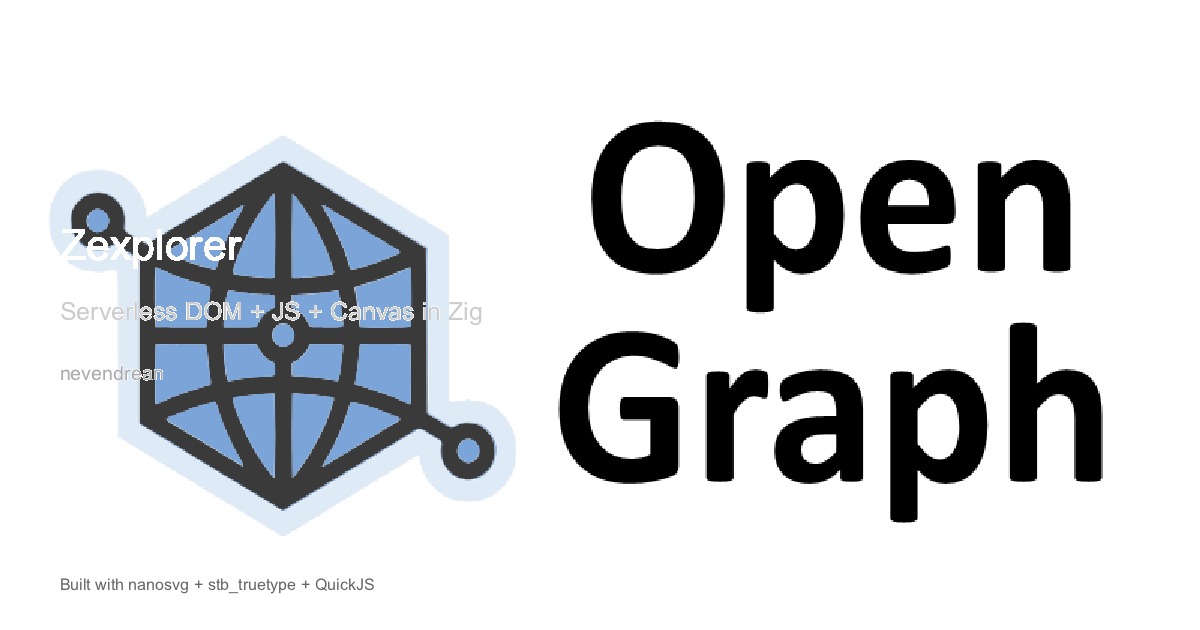
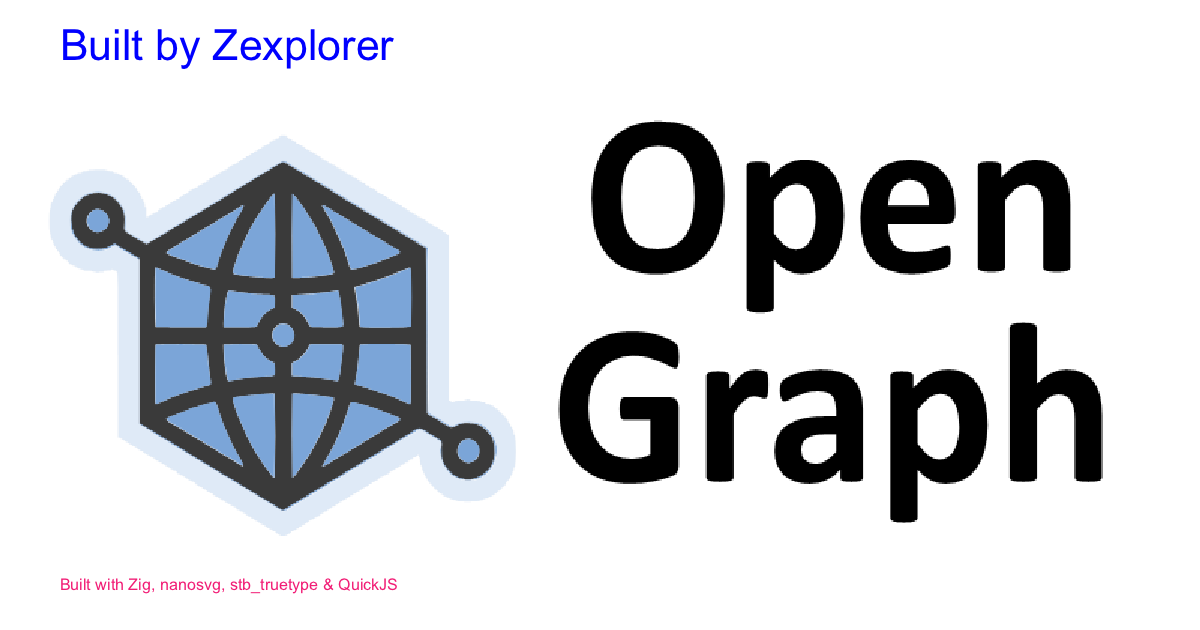
[Fix] Update

diff --git a/src/examples/test_svg_template_render.js b/src/examples/test_svg_template_render.js
@@ -23,35 +23,23 @@ async function renderTemplate(svgText, data) {
   // Draw the SVG template as background (scaled to fill)
   ctx.drawImage(img, 0, 0, img.width, img.height, 0, 0, w, h);
 
-  // --- Overlay dynamic text ---
+  // -- Overlay dynamic text --
 
   // Title (large, prominent)
   if (data.title) {
-    ctx.fillStyle = data.titleColor || "white";
+    ctx.fillStyle = data.titleColor || "blue";
     ctx.font = data.titleFont || "bold 48px";
-    ctx.fillText(data.title, 60, 260);
-  }
-
-  // Subtitle
-  if (data.subtitle) {
-    ctx.fillStyle = data.subtitleColor || "#cccccc";
-    ctx.font = data.subtitleFont || "28px";
-    ctx.fillText(data.subtitle, 60, 320);
-  }
-
-  // Author
-  if (data.author) {
-    ctx.fillStyle = data.authorColor || "#aaaaaa";
-    ctx.font = data.authorFont || "22px";
-    ctx.fillText(data.author, 60, 380);
+    ctx.fillText(data.title, 60, 60);
   }
 
   // Footer (bottom-left)
   if (data.footer) {
-    ctx.fillStyle = data.footerColor || "#666666";
+    ctx.fillStyle = data.footerColor || "#f11c75";
     ctx.font = data.footerFont || "18px";
     ctx.fillText(data.footer, 60, h - 40);
   }
+
+  // -- return data to Zig --
 
   const result = await canvas.toBlob();
   return await result.arrayBuffer();

diff --git a/README.md b/README.md
@@ -176,6 +176,7 @@ The output confirms that the whole page is sanitized and can be used:
 
 Confirm style set by class .untrusted on #js1: color= red
 ```
+---
 
 ### Generate OG images from SVG templates
 
@@ -187,62 +188,103 @@ It supports only a _subset of SVG_ (it uses `nanosvg` under the hood), meaning n
 
 Text can be added into the Canvas though (support via `stb_truetype`) using the preloaded `Arial` font and `fillText`, `measureText` related functions.
 
+[Source SVG](https://github.com/ndrean/zexplorer/blob/main/test_opengraph_me.svg)
+
 ```js
 // src/examples/test_svg_read_render.js
 
-async function renderSVG(svg_text_buffer) {
-  const blob = new Blob([svg_text_buffer], {type: 'image/svg+xml'});
+async function renderTemplate(svgText, data) {
+  const blob = new Blob([svgText], { type: "image/svg+xml" });
   const img = await createImageBitmap(blob);
-  
-  console.log('[JS] SVG from Blob:', img.width, 'x', img.height);
-  
-  const canvas = document.createElement('canvas');
-  const w = 800;
-  const h = w * img.height / img.width;
+
+  const w = data.width || 1200;
+  const h = data.height || 630;
+
+  const canvas = document.createElement("canvas");
   canvas.width = w;
   canvas.height = h;
-  const ctx = canvas.getContext('2d');
-  
-  ctx.fillStyle = 'white';
-  ctx.fillRect(0, 0, w, h);
-  ctx.drawImage(img, 0, 0, img.width, img.height, 0, 0, w, h);
-  
-  ctx.fillStyle = 'blue';
-  ctx.font = '20px';
-  ctx.fillText('SVG via Blob', 10, 390);
+  const ctx = canvas.getContext("2d");
 
-  // return value to Zig
+  // White background fallback
+  ctx.fillStyle = "white";
+  ctx.fillRect(0, 0, w, h);
+
+  // Draw the SVG template as background (scaled to fill)
+  ctx.drawImage(img, 0, 0, img.width, img.height, 0, 0, w, h);
+
+  // -- Overlay dynamic text --
+
+  // Title (large, prominent)
+  if (data.title) {
+    ctx.fillStyle = data.titleColor || "blue";
+    ctx.font = data.titleFont || "bold 48px";
+    ctx.fillText(data.title, 60, 60);
+  }
+
+  // Footer (bottom-left)
+  if (data.footer) {
+    ctx.fillStyle = data.footerColor || "#f11c75";
+    ctx.font = data.footerFont || "18px";
+    ctx.fillText(data.footer, 60, h - 40);
+  }
+
+  // -- return data to Zig --
+
   const result = await canvas.toBlob();
   return await result.arrayBuffer();
 }
 ```
 
 ```zig
-fn testReadSvgBlobFromJS(allocator: std.mem.Allocator, sbr: []const u8) !void {
+// src/examples/test_svg_raseter.zig
+
+fn testSvgTemplateFromJS(allocator: std.mem.Allocator, sbr: []const u8) !void {
     var engine = try ScriptEngine.init(allocator, sbr);
     defer engine.deinit();
 
-    const svg_text = @embedFile("test_opengraph-me.svg");
-    const js = @embedFile("test_svg_read_render.js");
+    const js = @embedFile("test_svg_template_render.js");
 
-    const val = try engine.eval(js, "<init>", .global);
+    const val = try engine.eval(js, "<template-init>", .global);
     defer engine.ctx.freeValue(val);
 
     const scope = z.wrapper.Context.GlobalScope.init(engine.ctx);
     defer scope.deinit();
-    try scope.setString("MY_SVG_DATA", svg_text);
 
-    const png_bytes = try engine.evalAsyncAs(allocator, []const u8, "renderSVG(MY_SVG_DATA)", "<svg-blob>");
+    try scope.setString("TEMPLATE_SVG", opengraph_svg);
+
+    // Build and inject the data object
+    const data = scope.newObject();
+    try engine.ctx.setPropertyStr(data, "title", scope.newString("Built by Zexplorer"));
+
+    try engine.ctx.setPropertyStr(data, "footer", scope.newString("Built with Zig, nanosvg, stb_truetype & QuickJS"));
+    try scope.set("TEMPLATE_DATA", data);
+
+    const png_bytes = try engine.evalAsyncAs(
+        allocator,
+        []const u8,
+        "renderTemplate(TEMPLATE_SVG, TEMPLATE_DATA)",
+        "<svg-template>",
+    );
     defer allocator.free(png_bytes);
 
     try js_canvas.verifyPngStructure(png_bytes);
-    try std.fs.cwd().writeFile(.{ .sub_path = "svg_read_raster_opengraph_blob.png", .data = png_bytes });
+    try std.fs.cwd().writeFile(
+        .{
+            .sub_path = "svg_template_opengraph.png",
+            .data = png_bytes,
+        },
+    );
+    std.debug.print("  [8] Saved 'svg_template_opengraph.png' ({d} bytes) — SVG template + dynamic text\n", .{png_bytes.len});
 }
 ```
 
 The result is:
 
 <img src="https://github.com/ndrean/zexplorer/blob/main/svg_read_raster_opengraph_blob.png" alt="SVG via Blob + createImageBitmap" width="300">
+
+[TODO] CLI...
+
+---
 
 ### Render Chart.js to PNG
 
@@ -348,6 +390,8 @@ fn chartJS(allocator: std.mem.Allocator, sbx: []const u8) !void {
 ```
 
 <img src="https://github.com/ndrean/zexplorer/blob/main/canvas_graphJS_test.png" alt="chartjs example" width="300">
+
+---
 
 ### Run React bundled code
 
